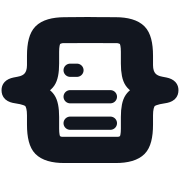
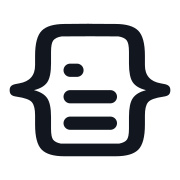
stop the mark drawing a second outline over itself
The surround is a filled glyph, not a stroked one, but it still carried a
`stroke-width` from the font it was converted out of. That drew nothing while no
stroke colour was set - and the moment the header inherited `stroke:currentColor`
from the root, it painted a nine-unit outline on top of the fill, so the braces
and their connecting bar came out far heavier than the rules inside.

Only the inner rules are stroked now, and they carry the stroke themselves rather
than inheriting it. The stray width goes with it, since an attribute that does
nothing until it does the wrong thing is worth removing rather than leaving for
the next person to inherit.

Changed region(s): [[0.0, 0.0833, 1.0, 0.9167], [0.1944, 0.1944, 0.8056, 0.8056]]

diff --git a/packages/schematalog-app/tests/unit/website/test_routes.py b/packages/schematalog-app/tests/unit/website/test_routes.py
@@ -173,3 +173,17 @@ def test_the_spec_describes_the_json_api_and_nothing_else(client):
     for operations in spec["paths"].values():
         for operation in operations.values():
             assert operation["tags"] == ["Schemas"]
+
+
+def test_the_mark_strokes_only_its_inner_rules(client):
+    """The surround is a filled shape, so stroking it draws a second, fatter outline.
+
+    It kept a `stroke-width` from the font it was converted out of, which drew nothing
+    until a stroke colour was inherited from above and then thickened it well past the
+    rules inside.
+    """
+    mark = client.get("/").text
+    mark = mark[mark.index('aria-label="Schematalog"') :]
+    mark = mark[: mark.index("</svg>")]
+    assert "stroke-width:9" not in mark, "the leftover font stroke width is back"
+    assert mark.count('stroke="currentColor"') == 1, "only the bars group is stroked"
